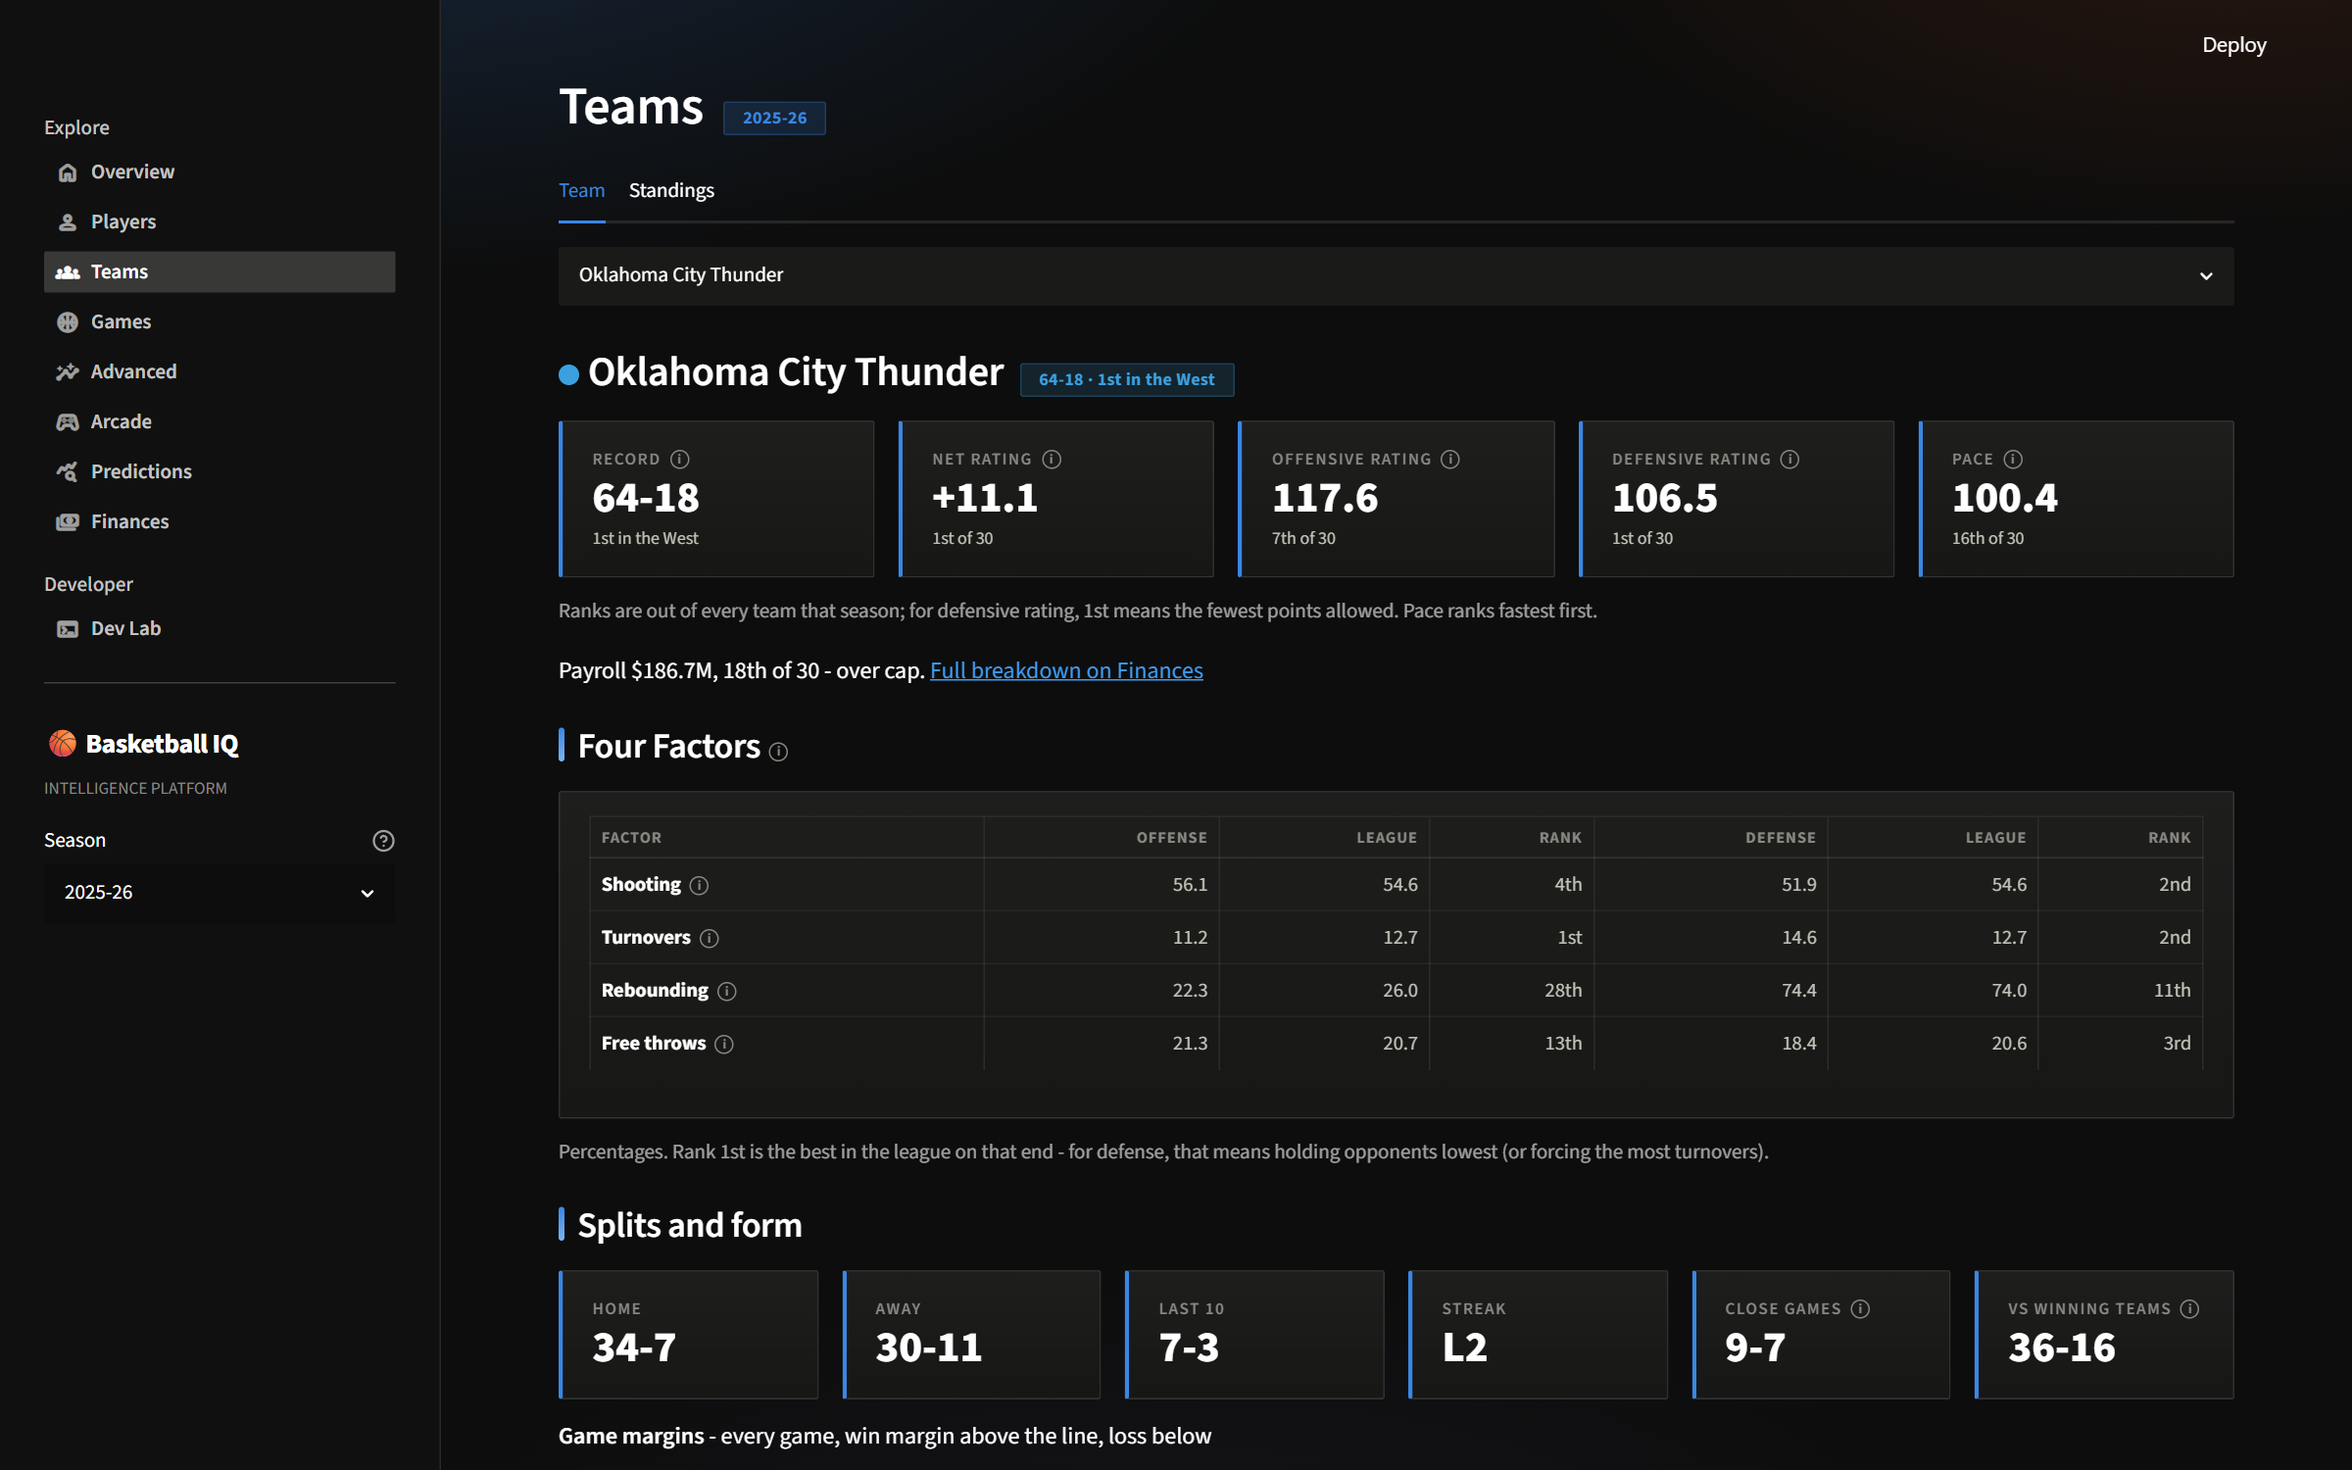
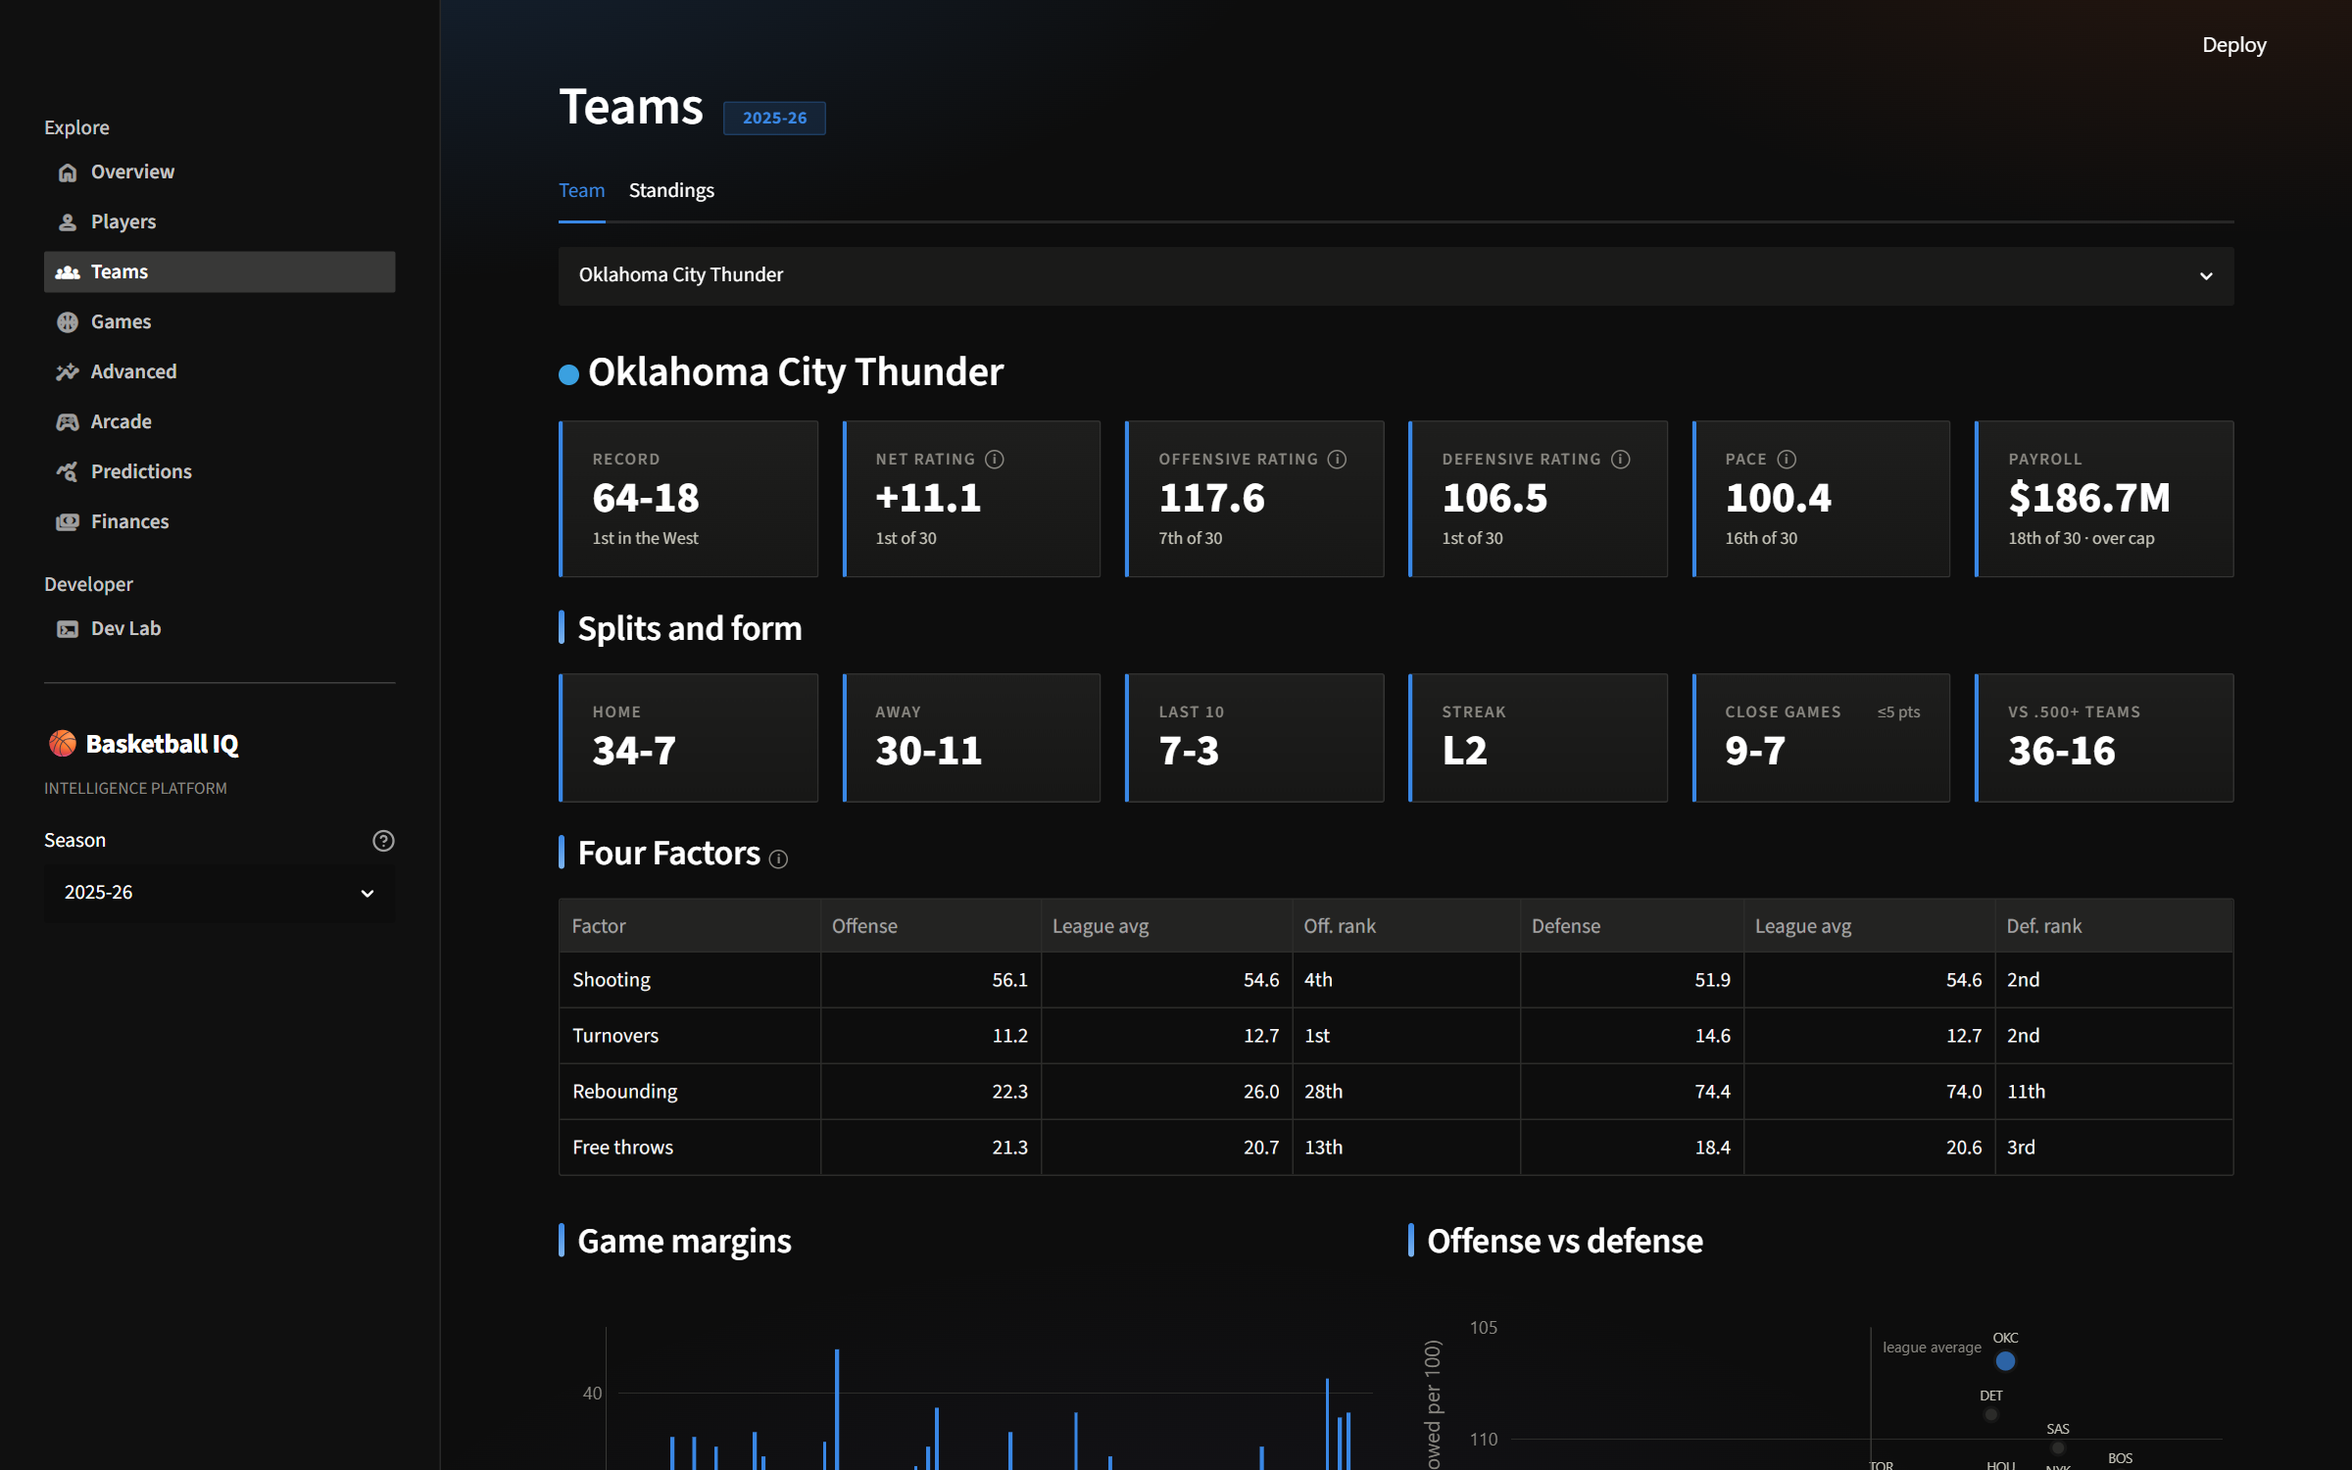
Teams page: one heading style, two even rows of cards, Four Factors as a standard grid

diff --git a/dashboard/views/teams.py b/dashboard/views/teams.py
@@ -41,31 +41,25 @@ def standings_table(df) -> str:
     return head + "".join(rows) + "</table>"
 
 
-def four_factors_table(ff: pd.DataFrame) -> str:
-    """Offense and defense side by side, each with the league average and rank."""
-    def fmt(v) -> str:
-        return "-" if v is None or v != v else f"{v:.1f}"
+# Every table on the Team tab is the same grid component, at the same row
+# height as the Players and Advanced grids.
+ROW_HEIGHT = 38
+CHART_HEIGHT = 360
 
-    head = ('<table class="bip-table"><tr><th class="lft">Factor</th>'
-            "<th>Offense</th><th>League</th><th>Rank</th>"
-            "<th>Defense</th><th>League</th><th>Rank</th></tr>")
-    rows = [
-        f'<tr><td class="lft tm">{r.factor}{T.tip(glossary.TERMS[r.factor])}</td>'
-        f"<td>{fmt(r.offense)}</td><td>{fmt(r.league_offense)}</td><td>{r.offense_rank}</td>"
-        f"<td>{fmt(r.defense)}</td><td>{fmt(r.league_defense)}</td><td>{r.defense_rank}</td></tr>"
-        for r in ff.itertuples()
-    ]
-    return head + "".join(rows) + "</table>"
+
+def section(title: str, help: str = "") -> None:
+    """The one heading style on this tab."""
+    st.markdown(f"#### {title}{T.tip(help) if help else ''}", unsafe_allow_html=True)
 
 
 def _rank_sub(rank) -> str:
     return f"{payroll.ordinal(rank[0])} of {rank[1]}" if rank else ""
 
 
-def _payroll_line(season: str, team: str) -> str | None:
-    """One sentence on the team's payroll that season, or None when the
-    warehouse has no salary data for it (before 1984-85, or a new season the
-    salary scrape hasn't reached yet)."""
+def _payroll_card(season: str, team: str) -> tuple[str, str] | None:
+    """(value, sub-line) for the Payroll card, or None when the warehouse has
+    no reliable salary figure for this team-season (before 1984-85, a source
+    gap, or a new season the salary scrape hasn't reached yet)."""
     if not db.team_finances_available():
         return None
     league = db.team_payroll_history()
@@ -73,14 +67,19 @@ def _payroll_line(season: str, team: str) -> str | None:
     row = league[league["team_abbreviation"] == team]
     if row.empty:
         return None
-    r = row.iloc[0]
-    label, _ = payroll.bracket(r)
+    label, _ = payroll.bracket(row.iloc[0])
     if label == "Data incomplete":
         return None
     rank = payroll.league_rank(league, team)
-    rank_text = f", {payroll.ordinal(rank[0])} of {rank[1]}" if rank else ""
-    return (f"Payroll {payroll.money(r['team_payroll'])}{rank_text} - "
-            f"{label.lower()}. [Full breakdown on Finances](finances)")
+    sub = f"{_rank_sub(rank)} &middot; {label.lower()}" if rank else label.lower()
+    return payroll.money(row.iloc[0]["team_payroll"]), sub
+
+
+def _cards(items: list[tuple]) -> None:
+    """One row of six equal cards: (label, value, sub, note, help)."""
+    cols = st.columns(6)
+    for col, (label, value, sub, note, help) in zip(cols, items):
+        col.markdown(T.kpi(label, value, sub, note=note, help=help), unsafe_allow_html=True)
 
 
 def render() -> None:
@@ -110,85 +109,90 @@ def _render_team(season: str, standings: pd.DataFrame) -> None:
 
     conf_table = standings[standings.conf == row.conf].reset_index(drop=True)
     seed = int(conf_table.index[conf_table.team == row.team][0]) + 1
-    seed_text = f"{payroll.ordinal(seed)} in the {row.conf}"
+    st.markdown(f"### {T.team_dot(row.team, 14)}{row.team_name}", unsafe_allow_html=True)
 
-    tc = T.team_color(row.team)
-    st.markdown(
-        f'### {T.team_dot(row.team, 14)}{row.team_name} &nbsp;'
-        f'{T.chip(f"{row.w}-{row.l} &middot; {seed_text}", tc)}',
-        unsafe_allow_html=True,
-    )
-
-    # --- Ratings with league ranks --------------------------------------------
-    # The efficiency block is additive; a warehouse without the marts falls
-    # back to per-game scoring, which every published warehouse has.
+    # --- Ratings: record, efficiency with league ranks, payroll ------------------
+    # The efficiency cards need the marts; a warehouse without them falls back
+    # to per-game scoring, which every published warehouse has.
     adv = db.team_advanced(season) if db.marts_available() else pd.DataFrame()
-    a = adv[adv.team_id == row.team_id].iloc[0] if not adv.empty and \
-        (adv.team_id == row.team_id).any() else None
-    c = st.columns(5)
-    c[0].markdown(T.kpi("Record", f"{row.w}-{row.l}", seed_text,
-                        help=glossary.TERMS["Seed"]), unsafe_allow_html=True)
-    if a is not None and a.offensive_rating == a.offensive_rating:
-        for col, label, field, high, fmt in [
-            (c[1], "Net rating", "net_rating", True, "{:+.1f}"),
-            (c[2], "Offensive rating", "offensive_rating", True, "{:.1f}"),
-            (c[3], "Defensive rating", "defensive_rating", False, "{:.1f}"),
-            (c[4], "Pace", "pace", True, "{:.1f}"),
+    match = adv[adv.team_id == row.team_id] if not adv.empty else adv
+    a = match.iloc[0] if len(match) and match.iloc[0].offensive_rating == \
+        match.iloc[0].offensive_rating else None
+
+    cards = [("Record", f"{row.w}-{row.l}", f"{payroll.ordinal(seed)} in the {row.conf}", "", "")]
+    if a is not None:
+        for label, field, high, fmt in [
+            ("Net rating", "net_rating", True, "{:+.1f}"),
+            ("Offensive rating", "offensive_rating", True, "{:.1f}"),
+            ("Defensive rating", "defensive_rating", False, "{:.1f}"),
+            ("Pace", "pace", True, "{:.1f}"),
         ]:
             rank = tm.league_rank(adv, row.team, field, high)
-            col.markdown(T.kpi(label, fmt.format(a[field]), _rank_sub(rank),
-                               help=glossary.TERMS[label]), unsafe_allow_html=True)
+            cards.append((label, fmt.format(a[field]), _rank_sub(rank), "",
+                          glossary.TERMS[label]))
     else:
-        c[1].markdown(T.kpi("Points / game", f"{row.ppg:.1f}"), unsafe_allow_html=True)
-        c[2].markdown(T.kpi("Opp points / game", f"{row.opp_ppg:.1f}"), unsafe_allow_html=True)
-        c[3].markdown(T.kpi("Net / game", f"{row.net:+.1f}",
-                            help=glossary.TERMS["Net / game"]), unsafe_allow_html=True)
-    st.caption("Ranks are out of every team that season; for defensive rating, "
-               "1st means the fewest points allowed. Pace ranks fastest first.")
+        cards += [("Points / game", f"{row.ppg:.1f}", "", "", ""),
+                  ("Opp points / game", f"{row.opp_ppg:.1f}", "", "", ""),
+                  ("Net / game", f"{row.net:+.1f}", "", "", glossary.TERMS["Net / game"])]
+    pay = _payroll_card(season, row.team)
+    if pay:
+        cards.append(("Payroll", pay[0], pay[1], "", ""))
+    _cards(cards)
 
-    line = _payroll_line(season, row.team)
-    if line:
-        # Escaped: st.markdown reads a pair of dollar signs as a formula.
-        st.markdown(line.replace("$", "\\$"))
-
-    # --- Four Factors -----------------------------------------------------------
-    if a is not None and "effective_fg_pct" in adv and a.effective_fg_pct == a.effective_fg_pct:
-        st.markdown(f'#### Four Factors{T.tip(glossary.TERMS["Four Factors"])}',
-                    unsafe_allow_html=True)
-        st.markdown(f'<div class="bip-card">{four_factors_table(tm.four_factors(adv, row.team))}</div>',
-                    unsafe_allow_html=True)
-        st.caption("Percentages. Rank 1st is the best in the league on that end - "
-                   "for defense, that means holding opponents lowest (or forcing "
-                   "the most turnovers).")
-
-    # --- Splits and form ----------------------------------------------------------
+    # --- Splits and form -------------------------------------------------------------
     if len(games):
-        st.markdown("#### Splits and form")
         sp = tm.splits(games, standings)
-        s = st.columns(6)
-        for col, label, value, term in [
-            (s[0], "Home", sp["home"], None),
-            (s[1], "Away", sp["away"], None),
-            (s[2], "Last 10", sp["last10"], None),
-            (s[3], "Streak", sp["streak"], None),
-            (s[4], "Close games", sp["close"], "Close-game record"),
-            (s[5], "Vs winning teams", sp["vs_winning"], "Vs winning teams"),
-        ]:
-            col.markdown(T.kpi(label, value, help=glossary.TERMS[term] if term else ""),
-                         unsafe_allow_html=True)
+        section("Splits and form")
+        _cards([
+            ("Home", sp["home"], "", "", ""),
+            ("Away", sp["away"], "", "", ""),
+            ("Last 10", sp["last10"], "", "", ""),
+            ("Streak", sp["streak"], "", "", ""),
+            ("Close games", sp["close"], "", "&le;5 pts", ""),
+            ("Vs .500+ teams", sp["vs_winning"], "", "", ""),
+        ])
 
-        st.markdown("**Game margins** - every game, win margin above the line, loss below")
-        st.plotly_chart(viz.team_margins(games), config=viz.PLOTLY_CONFIG, width="stretch")
+    # --- Four Factors --------------------------------------------------------------------
+    if a is not None and "effective_fg_pct" in adv and a.effective_fg_pct == a.effective_fg_pct:
+        section("Four Factors", glossary.TERMS["Four Factors"])
+        ff = tm.four_factors(adv, row.team)
+        pct = {"format": "%.1f"}
+        st.dataframe(
+            ff, hide_index=True, width="stretch", row_height=ROW_HEIGHT,
+            column_order=["factor", "offense", "league_offense", "offense_rank",
+                          "defense", "league_defense", "defense_rank"],
+            column_config={
+                "factor": st.column_config.TextColumn("Factor"),
+                "offense": st.column_config.NumberColumn(
+                    "Offense", help="This team's own value", **pct),
+                "league_offense": st.column_config.NumberColumn("League avg", **pct),
+                "offense_rank": st.column_config.TextColumn(
+                    "Off. rank", help="1st is the best offense in the league"),
+                "defense": st.column_config.NumberColumn(
+                    "Defense", help="What opponents managed against this team", **pct),
+                "league_defense": st.column_config.NumberColumn("League avg", **pct),
+                "defense_rank": st.column_config.TextColumn(
+                    "Def. rank", help="1st is the best defense in the league"),
+            },
+        )
 
-    if a is not None and a.offensive_rating == a.offensive_rating:
-        st.markdown("**Offense vs defense** - every team, up and to the right is better")
-        st.plotly_chart(viz.rating_quadrant(adv, highlight=row.team),
-                        config=viz.PLOTLY_CONFIG, width="stretch")
-        st.caption(f"Lines mark the league average. Ratings for {season} are "
-                   f"{a.ratings_source}.")
+    # --- Charts ------------------------------------------------------------------------------
+    left, right = st.columns(2)
+    if len(games):
+        with left:
+            section("Game margins")
+            fig = viz.team_margins(games)
+            fig.update_layout(height=CHART_HEIGHT)
+            st.plotly_chart(fig, config=viz.PLOTLY_CONFIG, width="stretch")
+    if a is not None:
+        with right:
+            section("Offense vs defense")
+            fig = viz.rating_quadrant(adv, highlight=row.team)
+            fig.update_layout(height=CHART_HEIGHT)
+            st.plotly_chart(fig, config=viz.PLOTLY_CONFIG, width="stretch")
 
-    # --- Roster -------------------------------------------------------------------
-    st.markdown("#### Top contributors")
+    # --- Roster ------------------------------------------------------------------------------
+    section("Roster")
     roster = db.team_roster(season, row.team, min_games=5)
     paths = db.player_team_paths(season)
     roster = roster.merge(paths[["player_id", "team_path"]], on="player_id", how="left")
@@ -196,7 +200,9 @@ def _render_team(season: str, standings: pd.DataFrame) -> None:
     roster = roster.sort_values("ppg", ascending=False).head(10)
     st.dataframe(
         roster[["player", "note", "gp", "mpg", "ppg", "rpg", "apg", "fg_pct", "plus_minus"]],
-        hide_index=True,
+        hide_index=True, width="stretch", row_height=ROW_HEIGHT,
+        # Tall enough for every row plus the header, so nothing scrolls.
+        height=(len(roster) + 1) * ROW_HEIGHT + 3,
         column_config={
             "player": st.column_config.TextColumn("Player", width="medium"),
             "note": st.column_config.TextColumn(
@@ -210,5 +216,13 @@ def _render_team(season: str, standings: pd.DataFrame) -> None:
             "plus_minus": st.column_config.NumberColumn(**glossary.marked("+/-"), format="%.1f"),
         },
     )
-    st.caption("Only games played for this team count, so a player traded mid-season "
-               "shows each stint on its own team. Minimum 5 games with the team.")
+
+    # One footnote for the whole tab instead of a caption under every block.
+    notes = ["Ranks are out of every team that season, 1st = best (fewest points "
+             "allowed for defensive rating, fastest for pace)."]
+    if a is not None:
+        notes.append(f"Ratings are {a.ratings_source}.")
+    notes.append("The roster counts only games played for this team, so a player traded "
+                 "mid-season shows each stint on its own team (minimum 5 games). "
+                 "Payroll detail is on the Finances page.")
+    st.caption(" ".join(notes))
